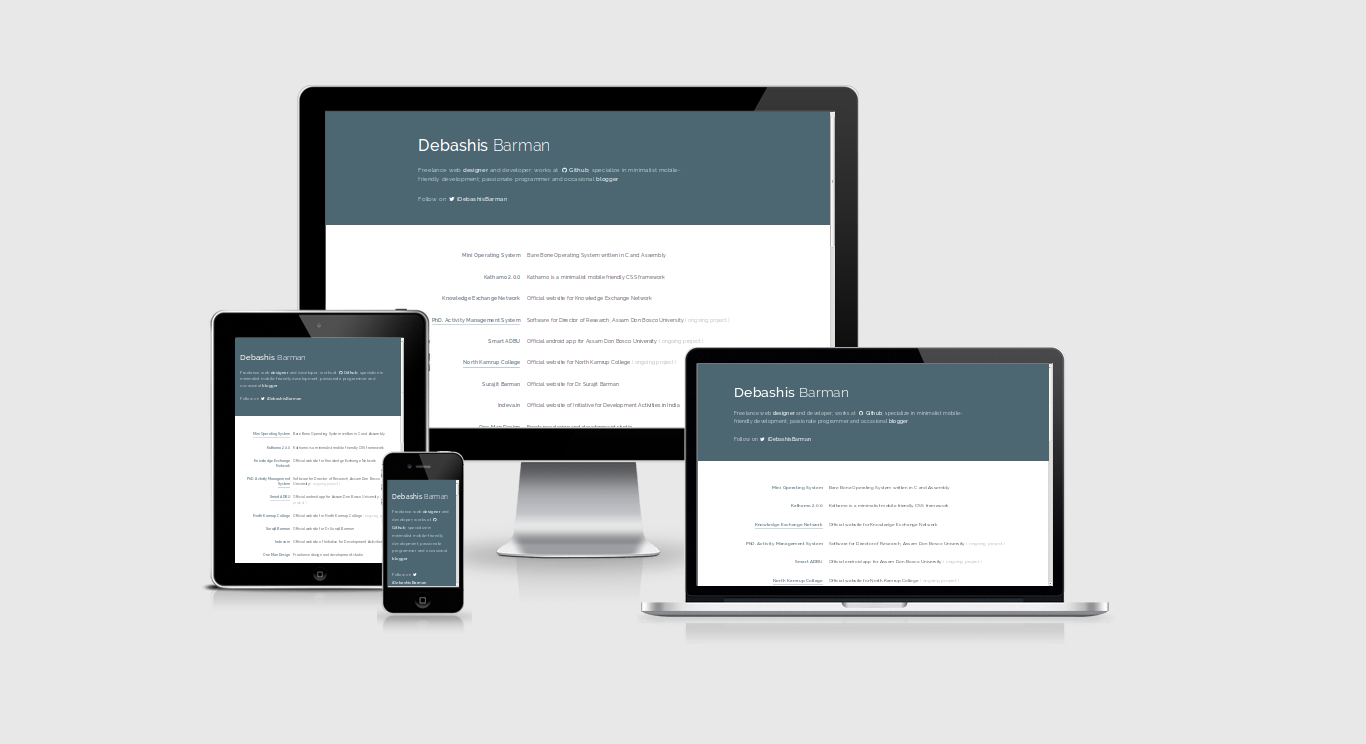
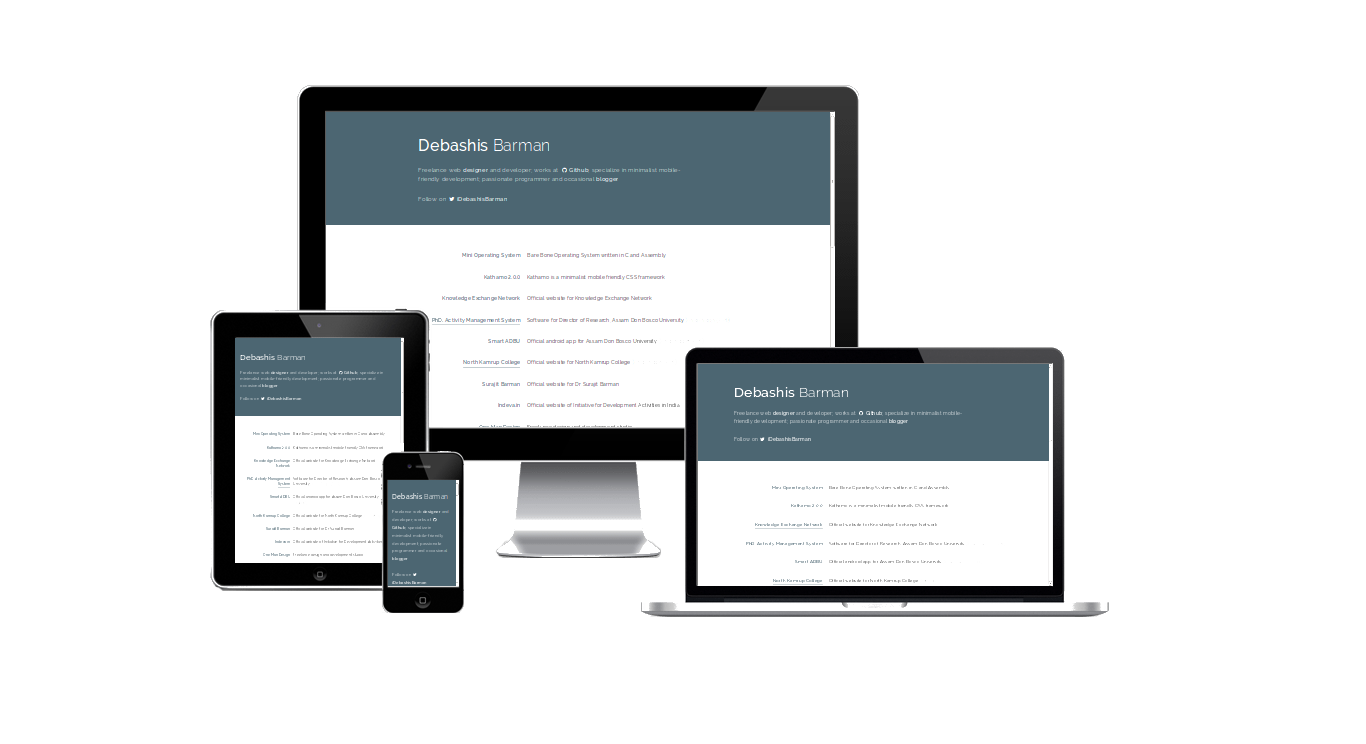
Flat Browser UI

Changed region(s): [[0.1537, 0.6801, 0.8302, 0.8656]]

diff --git a/index.html b/index.html
@@ -29,7 +29,13 @@ h2 { color: #4c6672; }
 .about { border-top: 1px solid #f3f5f6; }
 .about p { padding: 55px 0; line-height: 2; font-size: 16px; }
 
-img { margin: 55px 0; /* box-shadow: 0px 0px 3px 2px #f3f5f6; */ }
+/* Flat Browser */
+.flat-browser { height: auto; width: 100%; margin: 55px auto; border-radius: 8px; background-color: #efefef; box-shadow: 0px 2px 2px 1px #f3f5f6; }
+.flat-browser > .title-bar { width: 88.852459016% /* 542px / 610px */; padding: 13px 5.573770492% /* 34px / 610px */; }
+.flat-browser > .title-bar > .red-dot { width: 13px; height: 13px; margin-right: 13px; float: left; background-color: #d35400; border-radius: 50%; }
+.flat-browser > .title-bar > .orange-dot { width: 13px; height: 13px; margin-right: 13px; float: left; background-color: #f39c12; border-radius: 50%; }
+.flat-browser > .title-bar > .green-dot { width: 13px; height: 13px; margin-right: 13px; float: left; background-color: #2ecc71; border-radius: 50%; }
+.flat-browser > .body { height: 377px; padding-bottom: 5px; border-bottom-left-radius: 6px; border-bottom-right-radius: 6px; /* background image will be inline */ background-size: cover; background-position: top; }
 
 /* Footer */
 footer { background-color: #4c6672; color: #fff; padding: 21px 0 34px 0; }
@@ -78,10 +84,28 @@ footer small { font-size: 11px; padding: 0 0 21px 0; }
 <div class="col-lg-offset-2 col-lg-8 col-md-offset-2 col-md-8 about col-sm-12">
 <p>Freelance design studio run by young entrepreneurs to create clean and inituitive digital experiences that tell stories, build brand and bring ideas to life.
 <h2>Portfolio</h2>
-<img src="assets/images/db.in.png">
-<a type="button" class="btn btn-default" target="_blank" href="http://www.debashisbarman.in">Go to website</a>
-<img src="assets/images/sb.in.png">
-<a type="button" class="btn btn-default" target="_blank" href="http://www.surajitbarman.in">Go to website</a></p>
+
+<div class="flat-browser clearfix">
+<div class="title-bar clearfix">
+<div class="red-dot"></div>
+<div class="orange-dot"></div>
+<div class="green-dot"></div>
+</div>
+<div class="body" style="background-image: url(assets/images/sb.in.full.png);"></div>
+</div>
+
+<a type="button" class="btn btn-default" target="_blank" href="http://www.surajitbarman.in">Go to website</a>
+
+<div class="flat-browser clearfix">
+<div class="title-bar clearfix">
+<div class="red-dot"></div>
+<div class="orange-dot"></div>
+<div class="green-dot"></div>
+</div>
+<div class="body" style="background-image: url(assets/images/db.in.full.png);"></div>
+</div>
+
+<a type="button" class="btn btn-default" target="_blank" href="http://www.debashisbarman.in">Go to website</a></p>
 </div>
 </div>
 </div>
